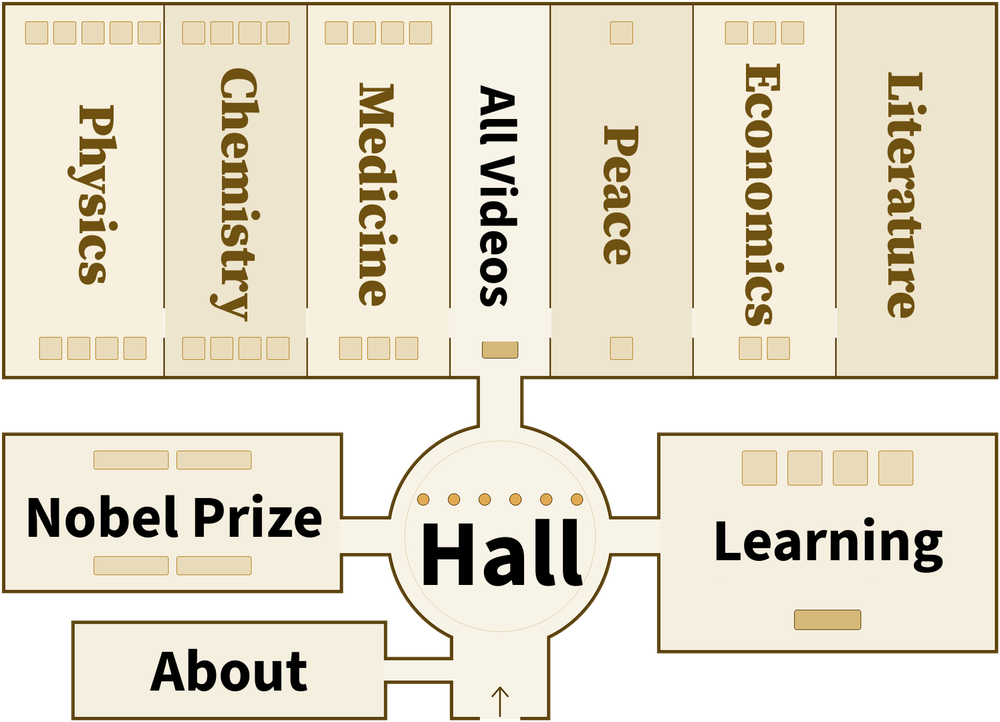
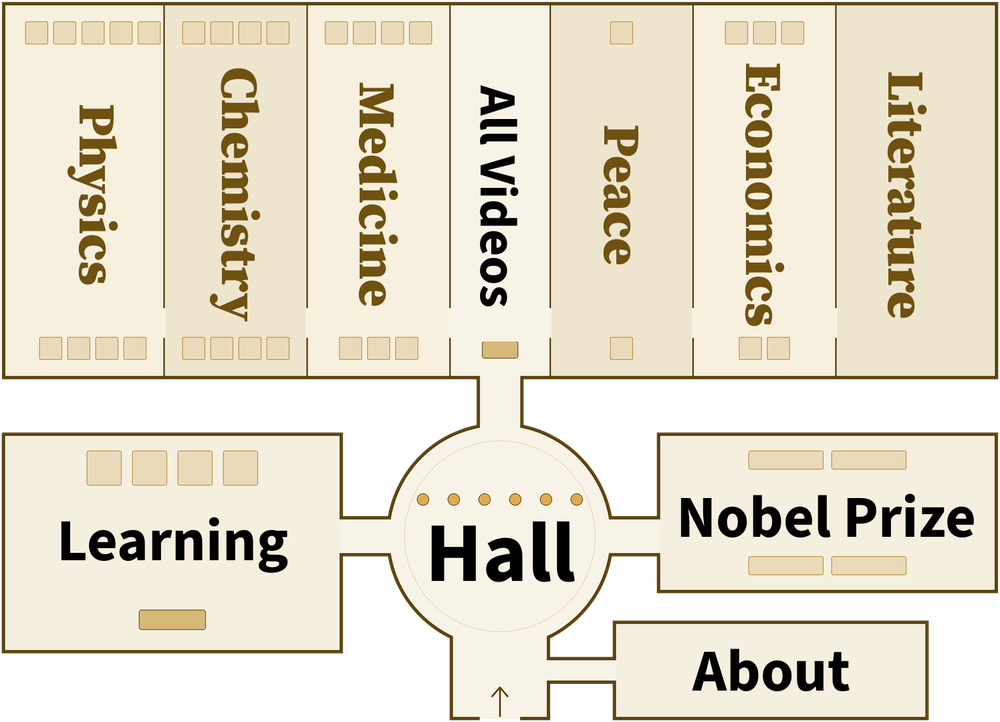
feat: the learning area moves to the left of the rotunda, and Hall steps down a tenth
At the owner's word (2026-10-11) the two sides of the rotunda change
places: the learning area on the left, the introduction room and the
colophon on the right. The owner's file is not touched — the script mirrors
everything from the rotunda down about the drawing's axis and copies the
four labels back the right way round; the rotunda, its ring, its dots and
the entrance are symmetric and land on themselves. The English plan follows
from the same table, and the three regions in FloorPlan are the file's
boxes under the same mirror, so the lit room and the clicks moved with the
picture. The English Hall is set a tenth smaller.

Changed region(s): [[0.527, 0.6094, 1.0, 1.0], [0.0, 0.6094, 0.465, 1.0], [0.403, 0.7008, 0.589, 0.8227]]

diff --git a/scripts/make-floorplan.py b/scripts/make-floorplan.py
@@ -9,7 +9,9 @@ Source: assets-src/marks/museum-floorplan.png (the owner's file, 1600x1134,
 transparent outside the walls, labelled in Han). Writes two pictures that
 FloorPlan.astro pins under the bar's keys:
 
-  public/assets/ui/floorplan.webp      the owner's drawing as supplied
+  public/assets/ui/floorplan.webp      the owner's drawing, with the two
+                                       sides of the rotunda exchanged — see
+                                       SWAP below
   public/assets/ui/floorplan-en.webp   the same drawing with its labels in
                                        English — made here, not drawn: each
                                        Han label is painted out with its own
@@ -25,18 +27,29 @@ FloorPlan.astro pins under the bar's keys:
                                        asked for (2026-10-11), the way 生醫
                                        stands for 生理學或醫學.
 
-Both are trimmed to the drawing's own edges and brought down to 1000px
-across — three times the widest the plan is ever drawn on screen (three key
-plates, about 330 CSS px), so sharp on a 3x phone — and lossless, because
-the drawing is flat colour and type and a lossy encode rings round every
-character.
+SWAP: the owner's file has the introduction room on the left of the rotunda
+and the learning area on the right; on 2026-10-11 they asked for the two
+sides exchanged — the learning area on the left, the introduction room and
+the colophon on the right. The file is not touched: everything from the
+rotunda down is mirrored about the drawing's axis, and the four labels in
+that part are copied back the right way round. The rotunda, its ring, its
+dots and the entrance are symmetric and land on themselves; the display
+cases are rectangles and read the same mirrored. Set SWAP = False to have
+the file as drawn.
+
+Both pictures are trimmed to the drawing's own edges and brought down to
+1000px across — three times the widest the plan is ever drawn on screen
+(three key plates, about 330 CSS px), so sharp on a 3x phone — and lossless,
+because the drawing is flat colour and type and a lossy encode rings round
+every character.
 
 The clickable regions in FloorPlan.astro are written in the SOURCE file's
-coordinates, and the overlay's viewBox states the trim, which is why this
-script prints the trim box and refuses to write an English plan whose trim
-differs from the Han one: the two share one overlay. If the owner's file is
-ever re-exported with a different margin, that viewBox is the one number to
-update — and the label boxes below, which are measured off the drawing.
+coordinates — mirrored by the same rule where SWAP applies — and the
+overlay's viewBox states the trim, which is why this script prints the trim
+box and refuses to write an English plan whose trim differs from the Han
+one: the two share one overlay. If the owner's file is ever re-exported with
+a different margin, that viewBox is the one number to update — and the label
+boxes below, which are measured off the drawing.
 
 The faces are the museum's own, from assets-src/fonts (scripts/subset-fonts.mjs
 fetches them if they are missing): Source Serif 4 and Source Sans 3.
@@ -52,6 +65,17 @@ OUT = ROOT / 'public/assets/ui'
 FONTS = ROOT / 'assets-src/fonts'
 W = 1000
 
+SWAP = True
+# The first row of the part that is mirrored: just under the corridor that
+# joins the index of films to the rotunda. The rotunda's circle is centred on
+# x = 799.5 to the pixel (measured on three rows), which is the axis a
+# 1600px-wide array flips about; the corridors are within a pixel of it.
+AXIS_Y = 691
+
+def mirror_box(b):
+    x0, y0, x1, y1 = b
+    return (1600 - x1, y0, 1600 - x0, y1)
+
 def write(plan, name):
     box = plan.getbbox()           # (left, top, right, bottom) of everything not transparent
     out = plan.crop(box)
@@ -62,11 +86,8 @@ def write(plan, name):
           f'  trim box (viewBox): {box[0]} {box[1]} {box[2] - box[0]} {box[3] - box[1]}')
     return box
 
-src = Image.open(SRC).convert('RGBA')
-box_zh = write(src, 'floorplan.webp')
-
 # ---------------------------------------------------------------------------
-# the English plan
+# the labels — in the owner's file's own coordinates
 # ---------------------------------------------------------------------------
 BROWN = (111, 81, 17)     # the drawing's own ink for the seven rooms — #6f5111, the museum's deep gold
 BLACK = (0, 0, 0)
@@ -87,6 +108,31 @@ LABELS = [
     ('home',       (670, 804, 930, 932), 'Hall',        'sans',  BLACK, False),
 ]
 
+# ---------------------------------------------------------------------------
+# the Han plan
+# ---------------------------------------------------------------------------
+src = Image.open(SRC).convert('RGBA')
+if SWAP:
+    a = np.array(src)
+    out = a.copy()
+    out[AXIS_Y:] = a[AXIS_Y:, ::-1]
+    # the labels go back the right way round: each box's own pixels, fill and
+    # all (the fills are flat, so the patch is seamless), copied from the
+    # file into the box's mirrored place
+    for key, box, *_ in LABELS:
+        if box[1] < AXIS_Y:
+            continue
+        x0, y0, x1, y1 = box
+        mx0, _, mx1, _ = mirror_box(box)
+        out[y0:y1, mx0:mx1] = a[y0:y1, x0:x1]
+    src = Image.fromarray(out)
+    LABELS = [(k, mirror_box(b) if b[1] >= AXIS_Y else b, *rest) for k, b, *rest in LABELS]
+
+box_zh = write(src, 'floorplan.webp')
+
+# ---------------------------------------------------------------------------
+# the English plan
+# ---------------------------------------------------------------------------
 def face(kind, size):
     path = FONTS / ('SourceSerif4-VF.ttf' if kind == 'serif' else 'SourceSans3-VF.ttf')
     if not path.exists():
@@ -103,22 +149,18 @@ def measure(kind, text, size):
     l, t, r, b = f.getbbox(text)
     return f, (r - l, b - t), (l, t)
 
-def fit(kind, text, max_long, max_short, vertical):
-    """the largest size at which the word fits its room: along the room and across it"""
+def fit(kind, text, max_w, max_h):
+    """the largest size at which the word fits its room"""
     size = 8
     while True:
         _, (w, h), _ = measure(kind, text, size + 1)
-        along, across = (w, h) if vertical else (w, h)
-        if vertical and (w > max_long or h > max_short): break
-        if not vertical and (w > max_long or h > max_short): break
+        if w > max_w or h > max_h:
+            return size
         size += 1
-    return size
 
 en = src.copy()
-arr = np.array(en)
-rgb = arr[:, :, :3].astype(int)
+rgb = np.array(en)[:, :, :3].astype(int)
 dark = rgb.sum(axis=2) < 330
-draw = ImageDraw.Draw(en)
 
 # 1. paint every Han label out with its own room's fill — the strokes and
 #    their anti-aliased fringe only (the ink, grown by three pixels), not the
@@ -133,13 +175,14 @@ for key, (x0, y0, x1, y1), *_ in LABELS:
     en.paste(fill + (255,), (x0, y0, x1, y1), mask)
 
 # 2. one size for the seven rooms (the longest word decides), one for the
-#    three rooms round the rotunda, and the rotunda's own
+#    three rooms round the rotunda, and the rotunda's own — a tenth under
+#    what would fill it, at the owner's word (2026-10-11)
 ROOM_LONG, ROOM_ACROSS = 400, 150          # down the room, across it
 tall = [l for l in LABELS if l[5]]
-size_tall = min(fit(l[3], l[2], ROOM_LONG, ROOM_ACROSS, True) for l in tall)
+size_tall = min(fit(l[3], l[2], ROOM_LONG, ROOM_ACROSS) for l in tall)
 low = [l for l in LABELS if not l[5] and l[0] != 'home']
-size_low = min(fit(l[3], l[2], (l[1][2] - l[1][0]) + 36, 92, False) for l in low)
-size_hall = fit('sans', 'Hall', 250, 110, False)
+size_low = min(fit(l[3], l[2], (l[1][2] - l[1][0]) + 36, 92) for l in low)
+size_hall = round(0.9 * fit('sans', 'Hall', 250, 110))
 print(f'type: rooms {size_tall}px, lower rooms {size_low}px, hall {size_hall}px')
 
 # 3. set each word where the Han label stood
@@ -154,7 +197,8 @@ for key, (x0, y0, x1, y1), text, kind, ink, vertical in LABELS:
     en.alpha_composite(tile, (round(cx - tile.width / 2), round(cy - tile.height / 2)))
 
 (ROOT / 'shots').mkdir(exist_ok=True)
-en.save(ROOT / 'shots/floorplan-en.png')      # the full-size English drawing, for checking
+src.save(ROOT / 'shots/floorplan-zh.png')     # the full-size drawings, for checking
+en.save(ROOT / 'shots/floorplan-en.png')
 box_en = write(en, 'floorplan-en.webp')
 if box_en != box_zh:
     sys.exit(f'the English plan trims to {box_en}, the Han one to {box_zh}: the two must share one viewBox')

diff --git a/CLAUDE.md b/CLAUDE.md
@@ -556,6 +556,13 @@ bar's key or the hall's sculpture would open, and the room the visitor is in was
   1000px across, lossless — a lossy encode rings round the Han labels). The regions are
   written in the SOURCE file's coordinates and the SVG `viewBox` states the trim the script
   prints; a re-export with a different margin changes that one attribute, not eleven shapes.
+- **The two sides of the rotunda are exchanged by the script, not in the file** (owner,
+  2026-10-11): the file has the introduction room on the left and the learning area on the
+  right; the published plan has the learning area on the left and the introduction room
+  with the colophon on the right. `SWAP` in the script mirrors everything from the rotunda
+  down about the drawing's axis (x → 1600 − x) and copies the four labels back the right way
+  round; the three regions in `FloorPlan.astro` are the file's boxes under the same mirror.
+  Never edit the owner's file to move a room — set the flag, or add to the script.
 - **The English plan is made, not drawn** (owner, 2026-10-11): the same script paints each
   Han label out with its room's own fill and sets a short English word in its place —
   Physics · Chemistry · Medicine · All Videos · Peace · Economics · Literature down the seven
